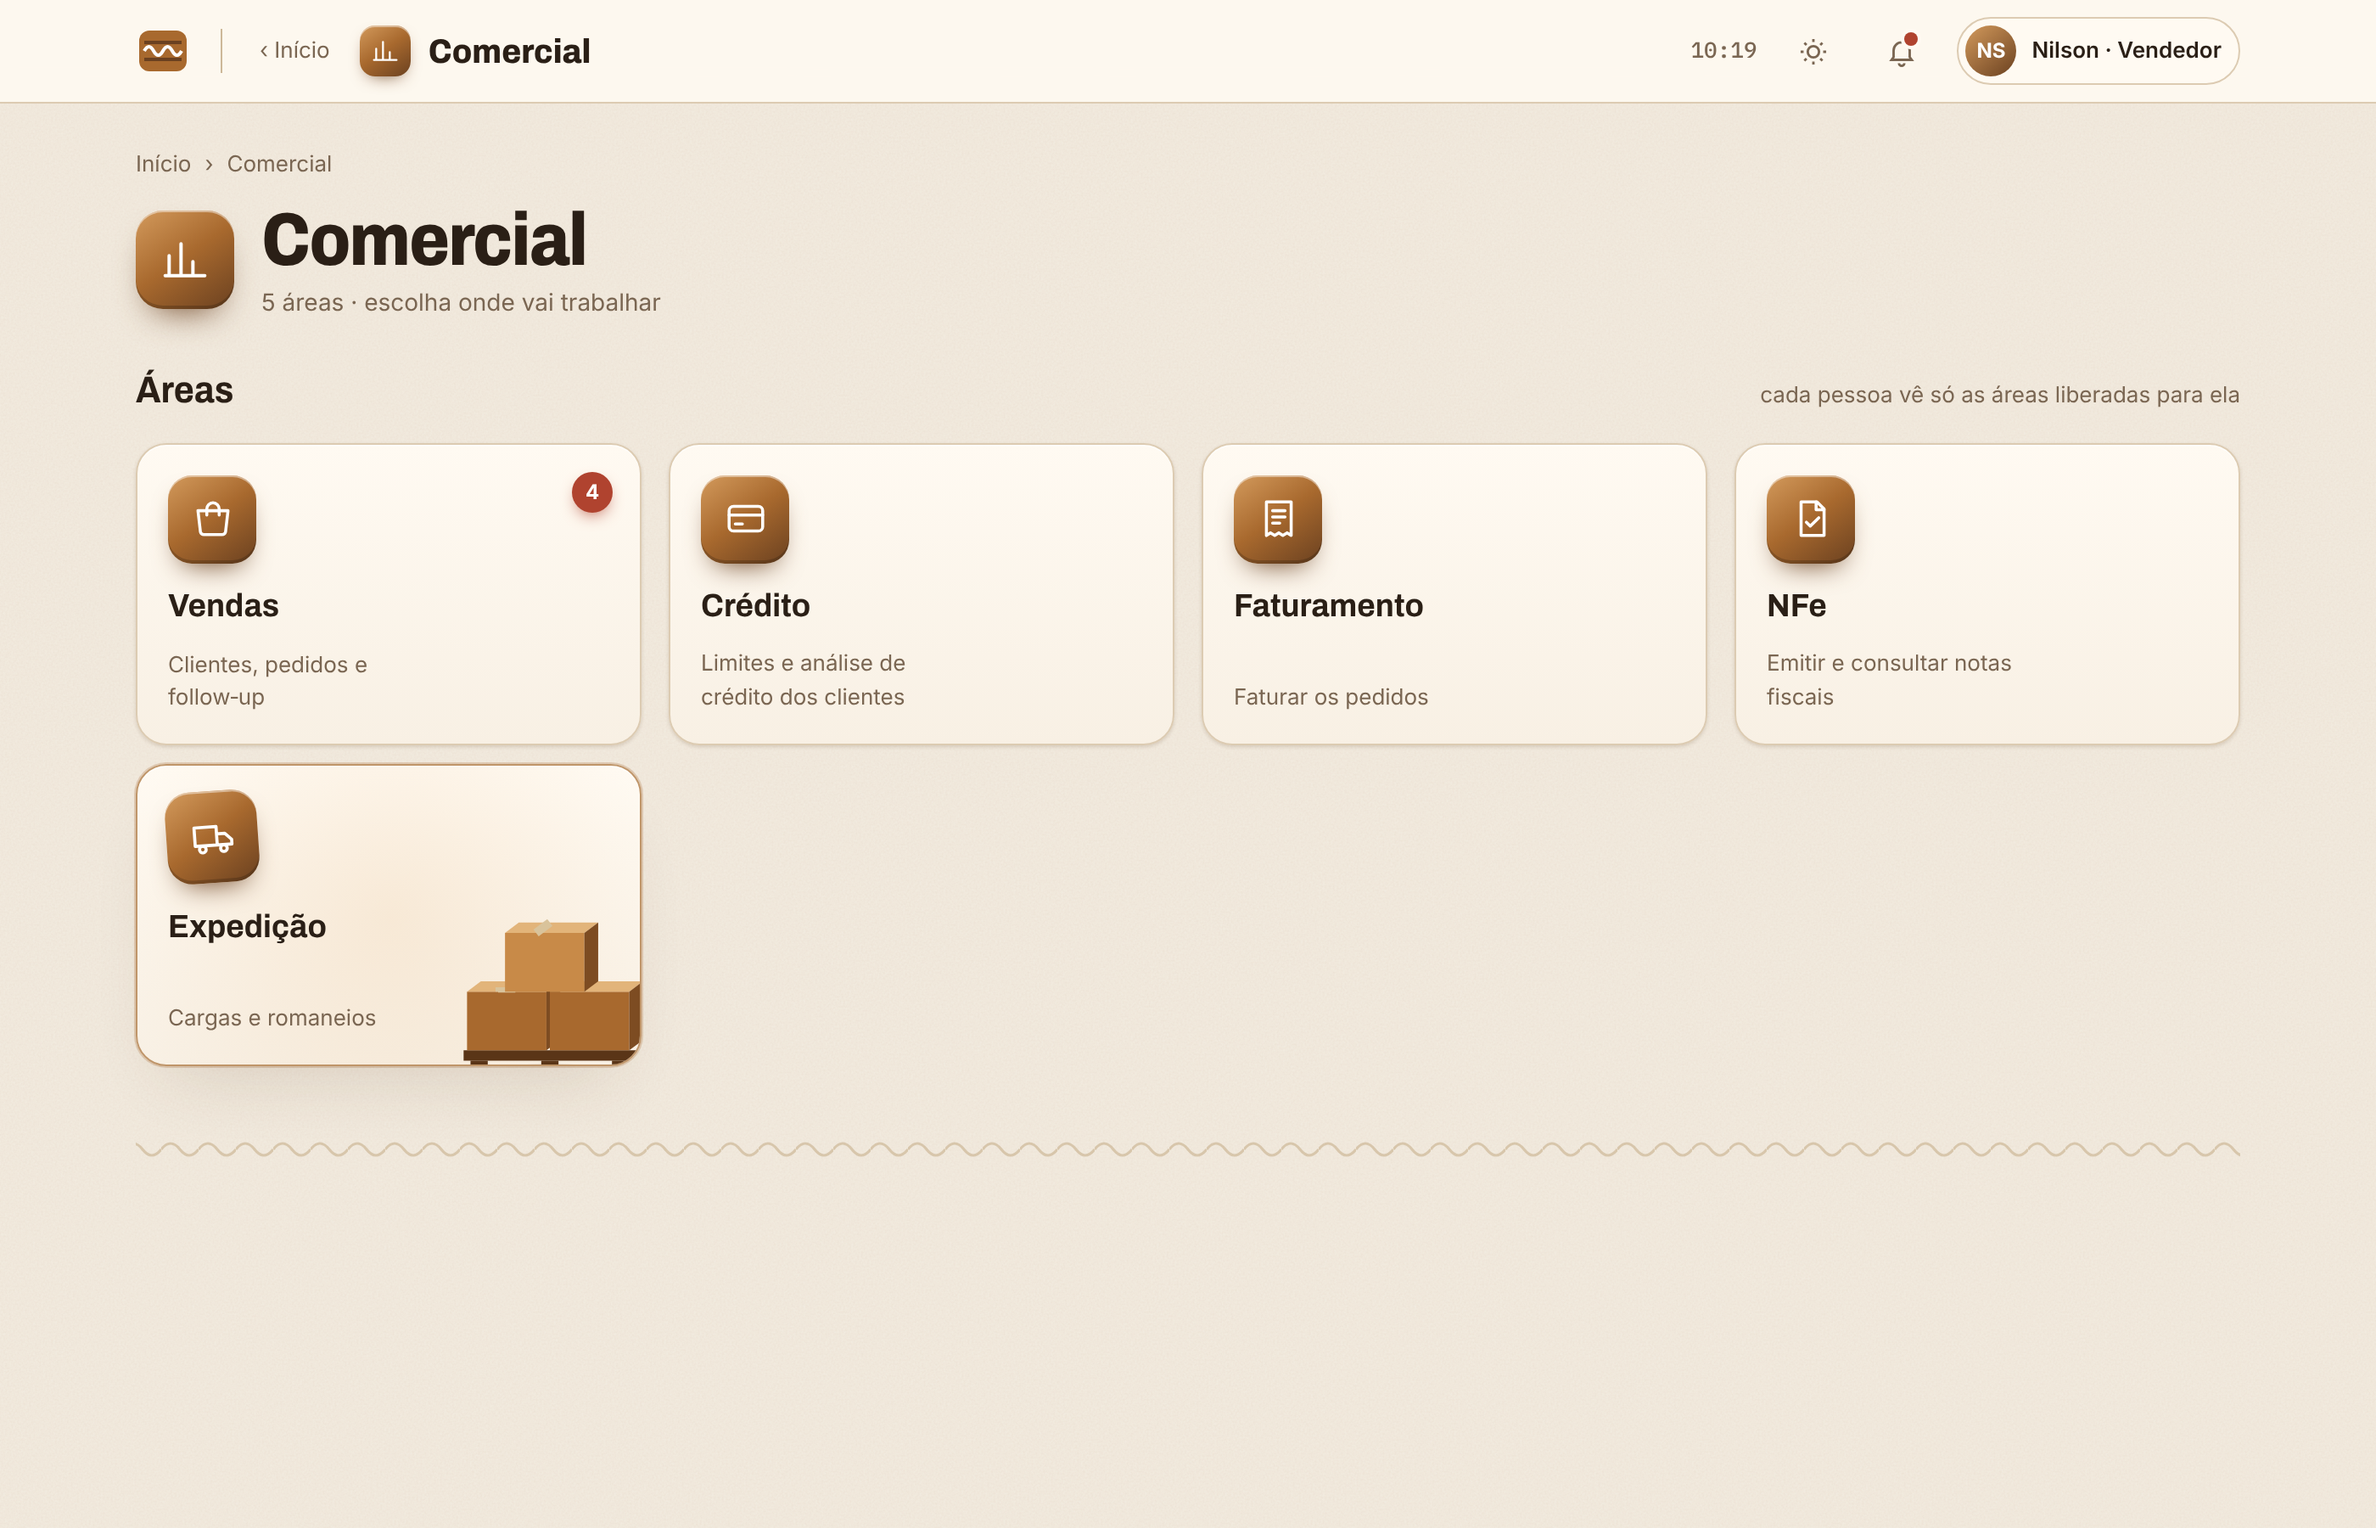
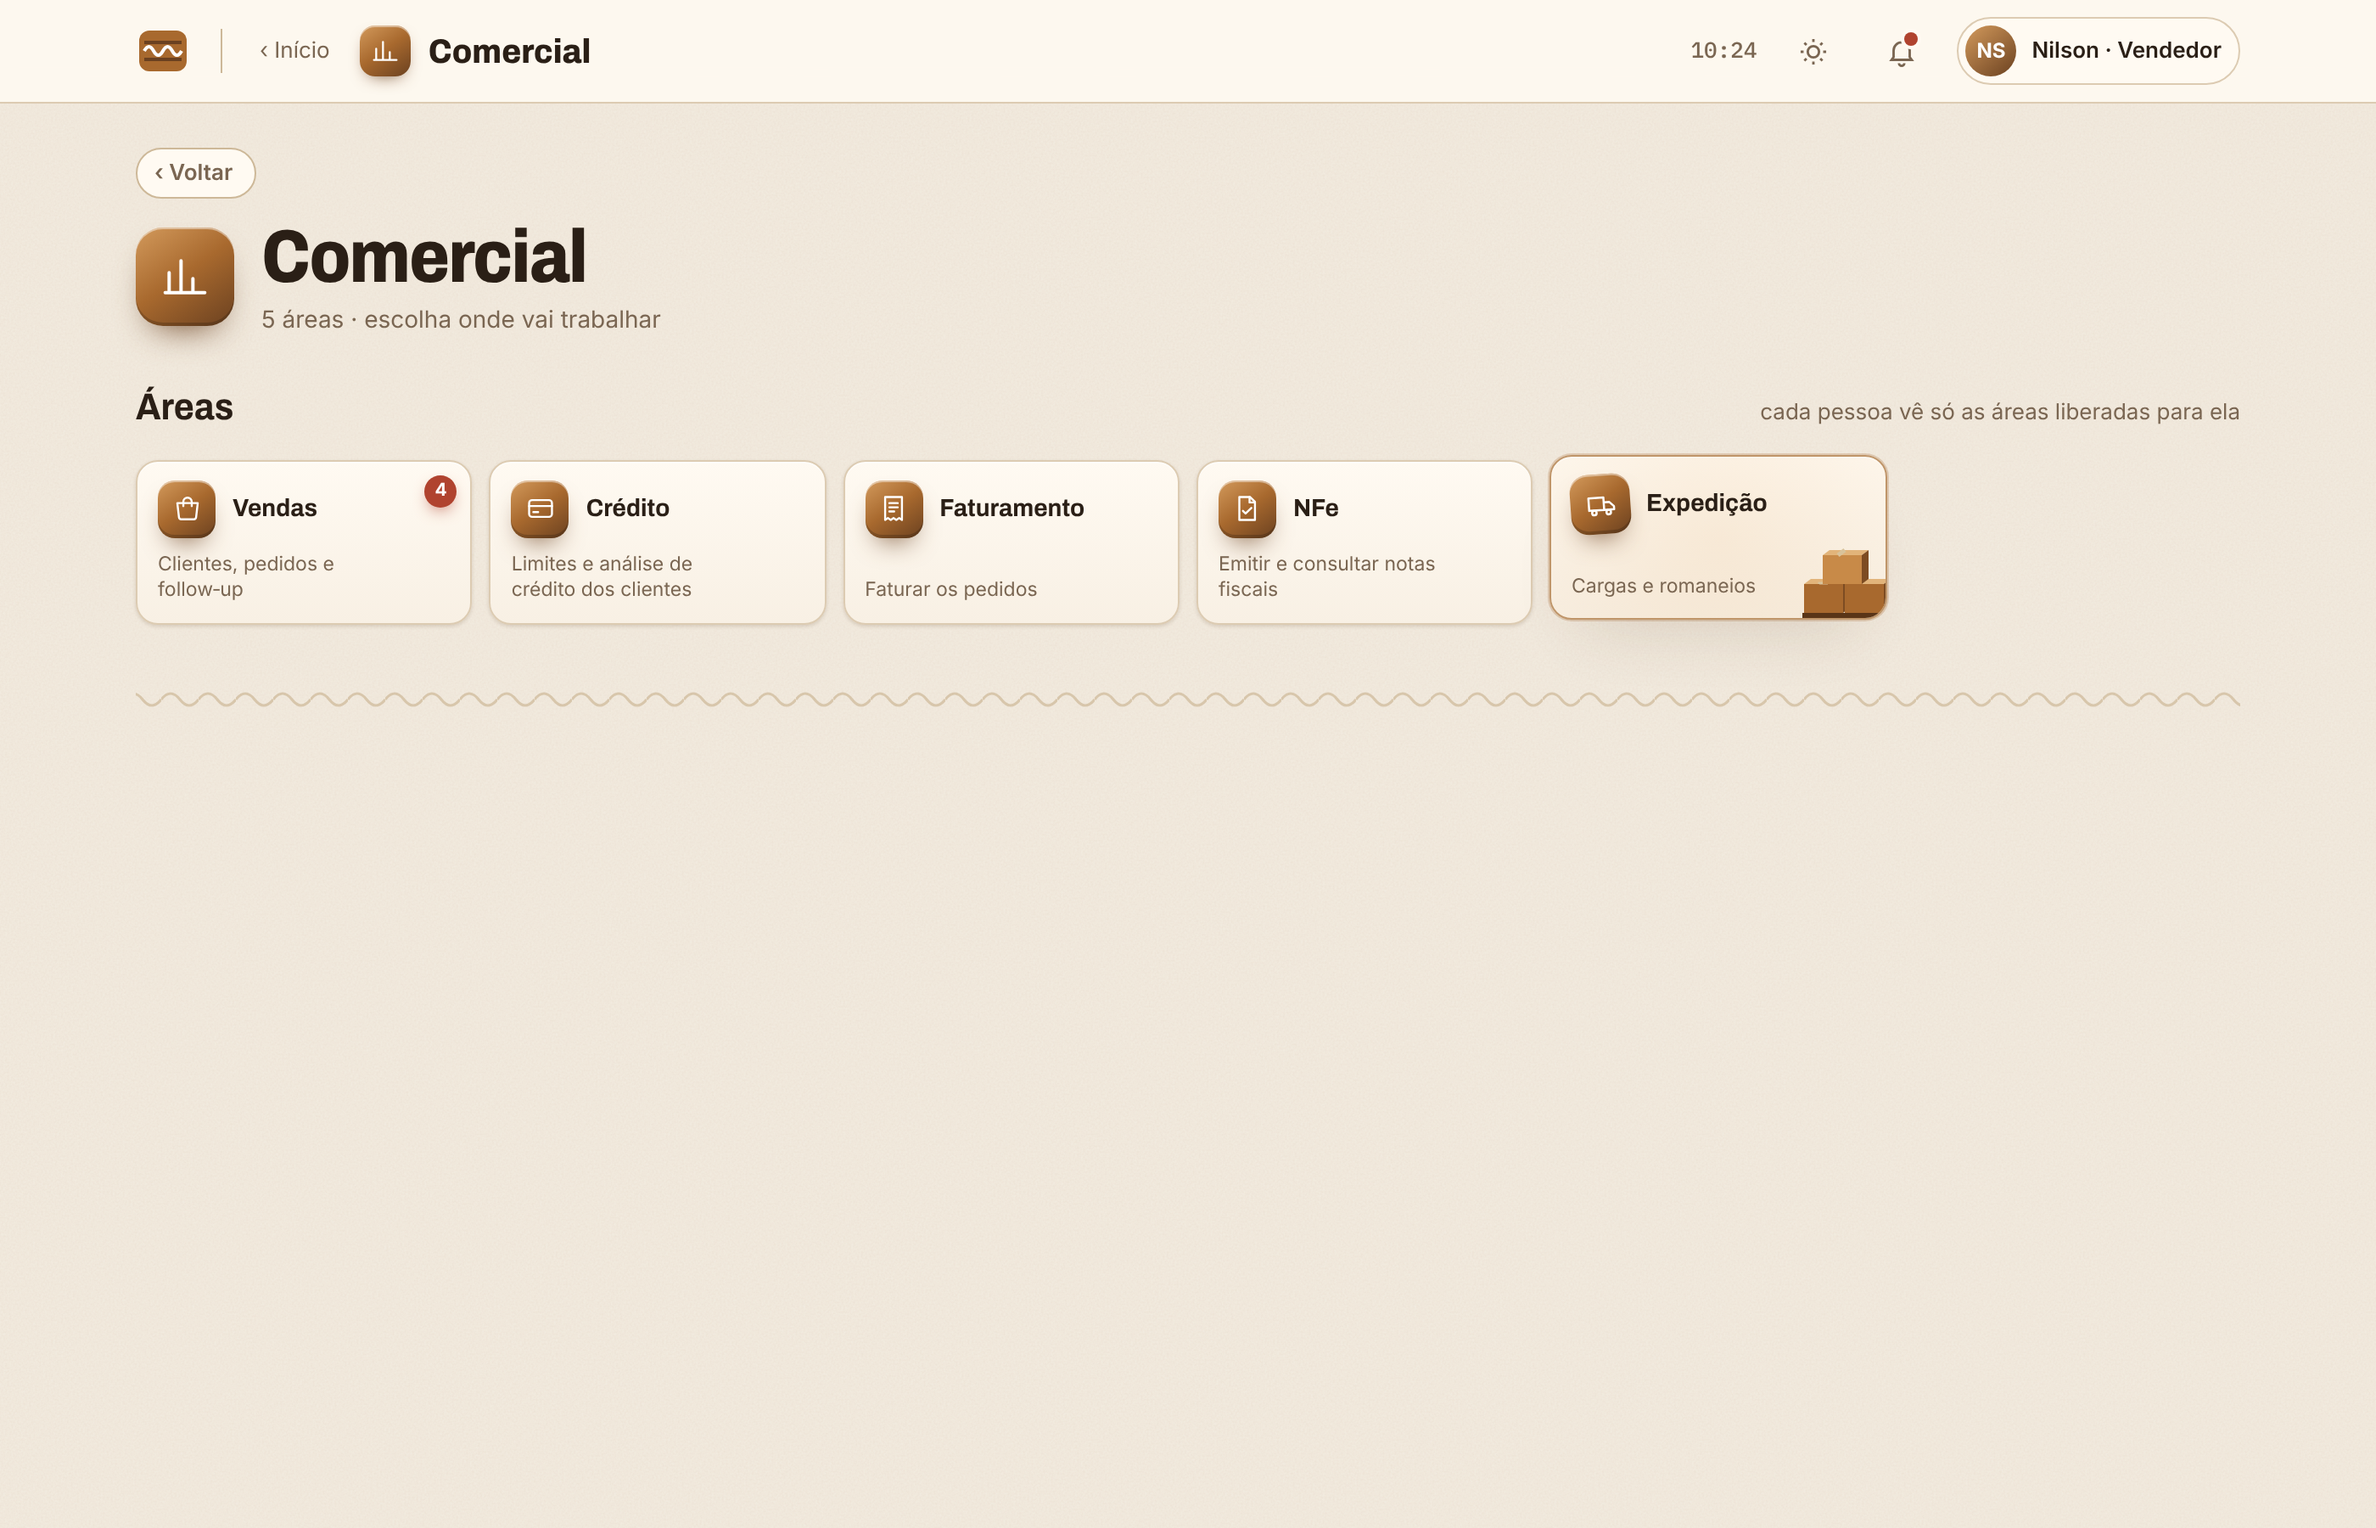
Cartões de módulos e áreas compactos; botão Voltar na tela de áreas
Claude-Session: https://claude.ai/code/session_015kL8p4eCaL1huCADCSMStj

diff --git a/prototipo/tela-inicial-e-comercial.html b/prototipo/tela-inicial-e-comercial.html
@@ -216,6 +216,25 @@ h2{font-family:var(--f-display);font-weight:700;font-stretch:92%;font-size:22px;
 .tile .badge.calm{background:var(--info)}
 .dotc{width:7px;height:7px;border-radius:50%;display:inline-block}
 
+/* cartões compactos: metade do tamanho, ícone ao lado do nome */
+.apps{grid-template-columns:repeat(6,minmax(0,1fr));gap:10px}
+@media (max-width:1100px){ .apps{grid-template-columns:repeat(4,minmax(0,1fr))} }
+@media (max-width:700px){ .apps{grid-template-columns:repeat(3,minmax(0,1fr));gap:8px} }
+@media (max-width:480px){ .apps{grid-template-columns:repeat(2,minmax(0,1fr))} }
+.tile{grid-template-columns:auto minmax(0,1fr);grid-template-rows:auto 1fr;align-items:center;column-gap:10px;row-gap:8px;min-height:92px;padding:11px 12px;border-radius:13px}
+.tile .ic{width:34px;height:34px;border-radius:10px}
+.tile .ic svg{width:17px;height:17px}
+.tile .nm{font-size:14.5px;line-height:1.2;padding-right:20px}
+.tile .st{grid-column:1/-1;align-self:end;font-size:11.5px;line-height:1.35;max-width:80%}
+.tile .badge{top:8px;right:8px;min-width:19px;height:19px;font-size:10.5px;padding:0 5px}
+.tile .deco{width:60px;height:60px;right:-6px;bottom:-8px}
+.tile .deco.faca{width:48px;height:48px;right:4px;bottom:-4px}
+.tile .deco.onda{width:52px;height:52px;right:2px;bottom:-4px}
+.tile:hover,.tile:focus-visible{transform:translateY(-3px) rotateX(var(--rx)) rotateY(var(--ry))}
+.tile:hover .ic{transform:rotate(-4deg) scale(1.04)}
+.voltar{display:inline-flex;align-items:center;gap:6px;border:1px solid var(--line-2);background:var(--surface);border-radius:99px;padding:4px 13px 4px 10px;font-size:13px;font-weight:600;color:var(--muted);cursor:pointer;transition:color .2s,border-color .2s}
+.voltar:hover{color:var(--kraft);border-color:var(--kraft)}
+
 /* retomada */
 .recent{display:grid;grid-template-columns:repeat(3,minmax(0,1fr));gap:12px}
 @media (max-width:820px){ .recent{grid-template-columns:1fr} }
@@ -408,7 +427,7 @@ table.cli{width:100%;border-collapse:collapse;min-width:760px;font-size:14px}
 .vazio{border:1px dashed var(--line-2);border-radius:16px;padding:40px 20px;text-align:center;color:var(--muted);display:grid;gap:8px;justify-items:center}
 .vazio b{color:var(--ink);font-family:var(--f-display);font-size:18px}
 
-.tile .st{display:-webkit-box;-webkit-line-clamp:3;-webkit-box-orient:vertical;overflow:hidden}
+.tile .st{display:-webkit-box;-webkit-line-clamp:2;-webkit-box-orient:vertical;overflow:hidden}
 /* seletor de área na barra de cima do módulo */
 .areasel{position:relative;display:flex;align-items:center;gap:2px}
 .areasel .chev{color:var(--line-2);font-size:18px;line-height:1}
@@ -564,7 +583,7 @@ table.cli{width:100%;border-collapse:collapse;min-width:760px;font-size:14px}
 <main id="view-areas" hidden>
   <section class="mod-head gut">
     <div class="max">
-      <div class="crumb"><a href="#inicio">Início</a><span aria-hidden="true">›</span><span id="areasCrumb">Comercial</span></div>
+      <button class="voltar" id="voltarBtn" type="button">‹ Voltar</button>
       <div class="mh"><span class="ic" id="areasIc"></span><div><h1 id="areasTit">Comercial</h1><div class="sub" id="areasSub">Escolha a área</div></div></div>
     </div>
   </section>
@@ -945,6 +964,15 @@ const areasGrid = $('areasGrid');
 efeitoLuz(areasGrid);
 
 let atual = null; // { m: módulo, a: área, ctx: "modulo/area" }
+/* "Voltar" leva para a tela de onde a pessoa veio (ou para o Início, se abriu direto aqui) */
+const pilha = [];
+function anotarCaminho(){
+  const h = location.hash && location.hash !== '#' ? location.hash : '#inicio';
+  if (pilha[pilha.length - 2] === h) pilha.pop();
+  else if (pilha[pilha.length - 1] !== h) pilha.push(h);
+}
+function voltar(){ location.hash = pilha.length > 1 ? pilha[pilha.length - 2] : '#inicio'; }
+$('voltarBtn').addEventListener('click', voltar);
 function rota(){
   const [ms, as] = decodeURIComponent(location.hash.slice(1)).split('/');
   const m = MODULOS.find(x => x.slug === ms); if (!m) return null;
@@ -952,6 +980,7 @@ function rota(){
   return { m, a, ctx: m.slug + (a ? '/' + a.k : '') };
 }
 function mostrarTela(){
+  anotarCaminho();
   atual = rota();
   const tela = !atual ? 'inicio' : (atual.m.areas && !atual.a) ? 'areas' : 'mesa';
   $('view-inicio').hidden = tela !== 'inicio';
@@ -966,6 +995,7 @@ function mostrarTela(){
   if (tela === 'mesa' && atual.a) { volta.href = '#' + atual.m.slug; volta.textContent = '‹ Áreas'; volta.title = 'Voltar para as áreas de ' + atual.m.nome; }
   else { volta.href = '#inicio'; volta.textContent = '‹ Início'; volta.title = 'Voltar para a tela inicial'; }
   if (tela === 'areas') montarAreas();
+  $('voltarBtn').title = pilha.length > 1 ? 'Voltar para a tela anterior' : 'Voltar para o Início';
   if (tela === 'mesa') montarMesa(); else { $('areaSel').hidden = true; menubar.innerHTML = ''; }
   document.title = 'Ondulado · ' + (atual ? atual.m.nome + (atual.a ? ' › ' + atual.a.nome : '') : 'Tela Inicial');
   mostrarJanelas();
@@ -984,7 +1014,6 @@ function montarAreas(){
   const m = atual.m, n = m.areas.length;
   $('areasIc').innerHTML = svg(m.k);
   $('areasTit').textContent = m.nome;
-  $('areasCrumb').textContent = m.nome;
   $('areasSub').textContent = `${n} ${n > 1 ? 'áreas' : 'área'} · escolha onde vai trabalhar`;
   areasGrid.innerHTML = m.areas.map(a => {
     const badge = BADGE_AREA[m.slug + '/' + a.k] || (m.calm && m.badge);

diff --git a/README.md b/README.md
@@ -59,7 +59,8 @@ do sistema (com IA) respeitando o que cada usuário pode acessar.
   | Gerencial | Relatórios |
   | Cadastros | (sem áreas por enquanto) |
 
-  - No cartão do módulo aparecem os nomes das áreas.
+  - Cartões **compactos** (metade do tamanho original): ícone ao lado do nome e, embaixo,
+    os nomes das áreas em letra pequena. Seis cartões por linha no computador.
   - Ao passar o mouse: o cartão sobe, inclina levemente, ganha uma luz suave e uma
     **caixinha de papelão** entra pelo canto (faca em Engenharia de Produto, onda em
     Industrial, pilha no pallet em Suprimentos, caixa que abre nos demais).
@@ -69,7 +70,8 @@ do sistema (com IA) respeitando o que cada usuário pode acessar.
 
 ### Áreas do módulo (padrão para todos)
 - Clicar num módulo que tem áreas abre a **tela de áreas**, no **mesmo layout da tela
-  inicial**: título do módulo e uma grade de cartões, um por área, com a mesma caixinha
+  inicial**: botão **‹ Voltar** (volta para a tela de onde a pessoa veio; se abriu direto,
+  para o Início), título do módulo e uma grade de cartões compactos, um por área, com a mesma caixinha
   ao passar o mouse (pilha no pallet em Expedição e Materiais, onda em PCP e Reporte de
   produção) e o selo de pendências de cada área.
 - No sistema real, cada pessoa vê só as áreas liberadas para ela.
